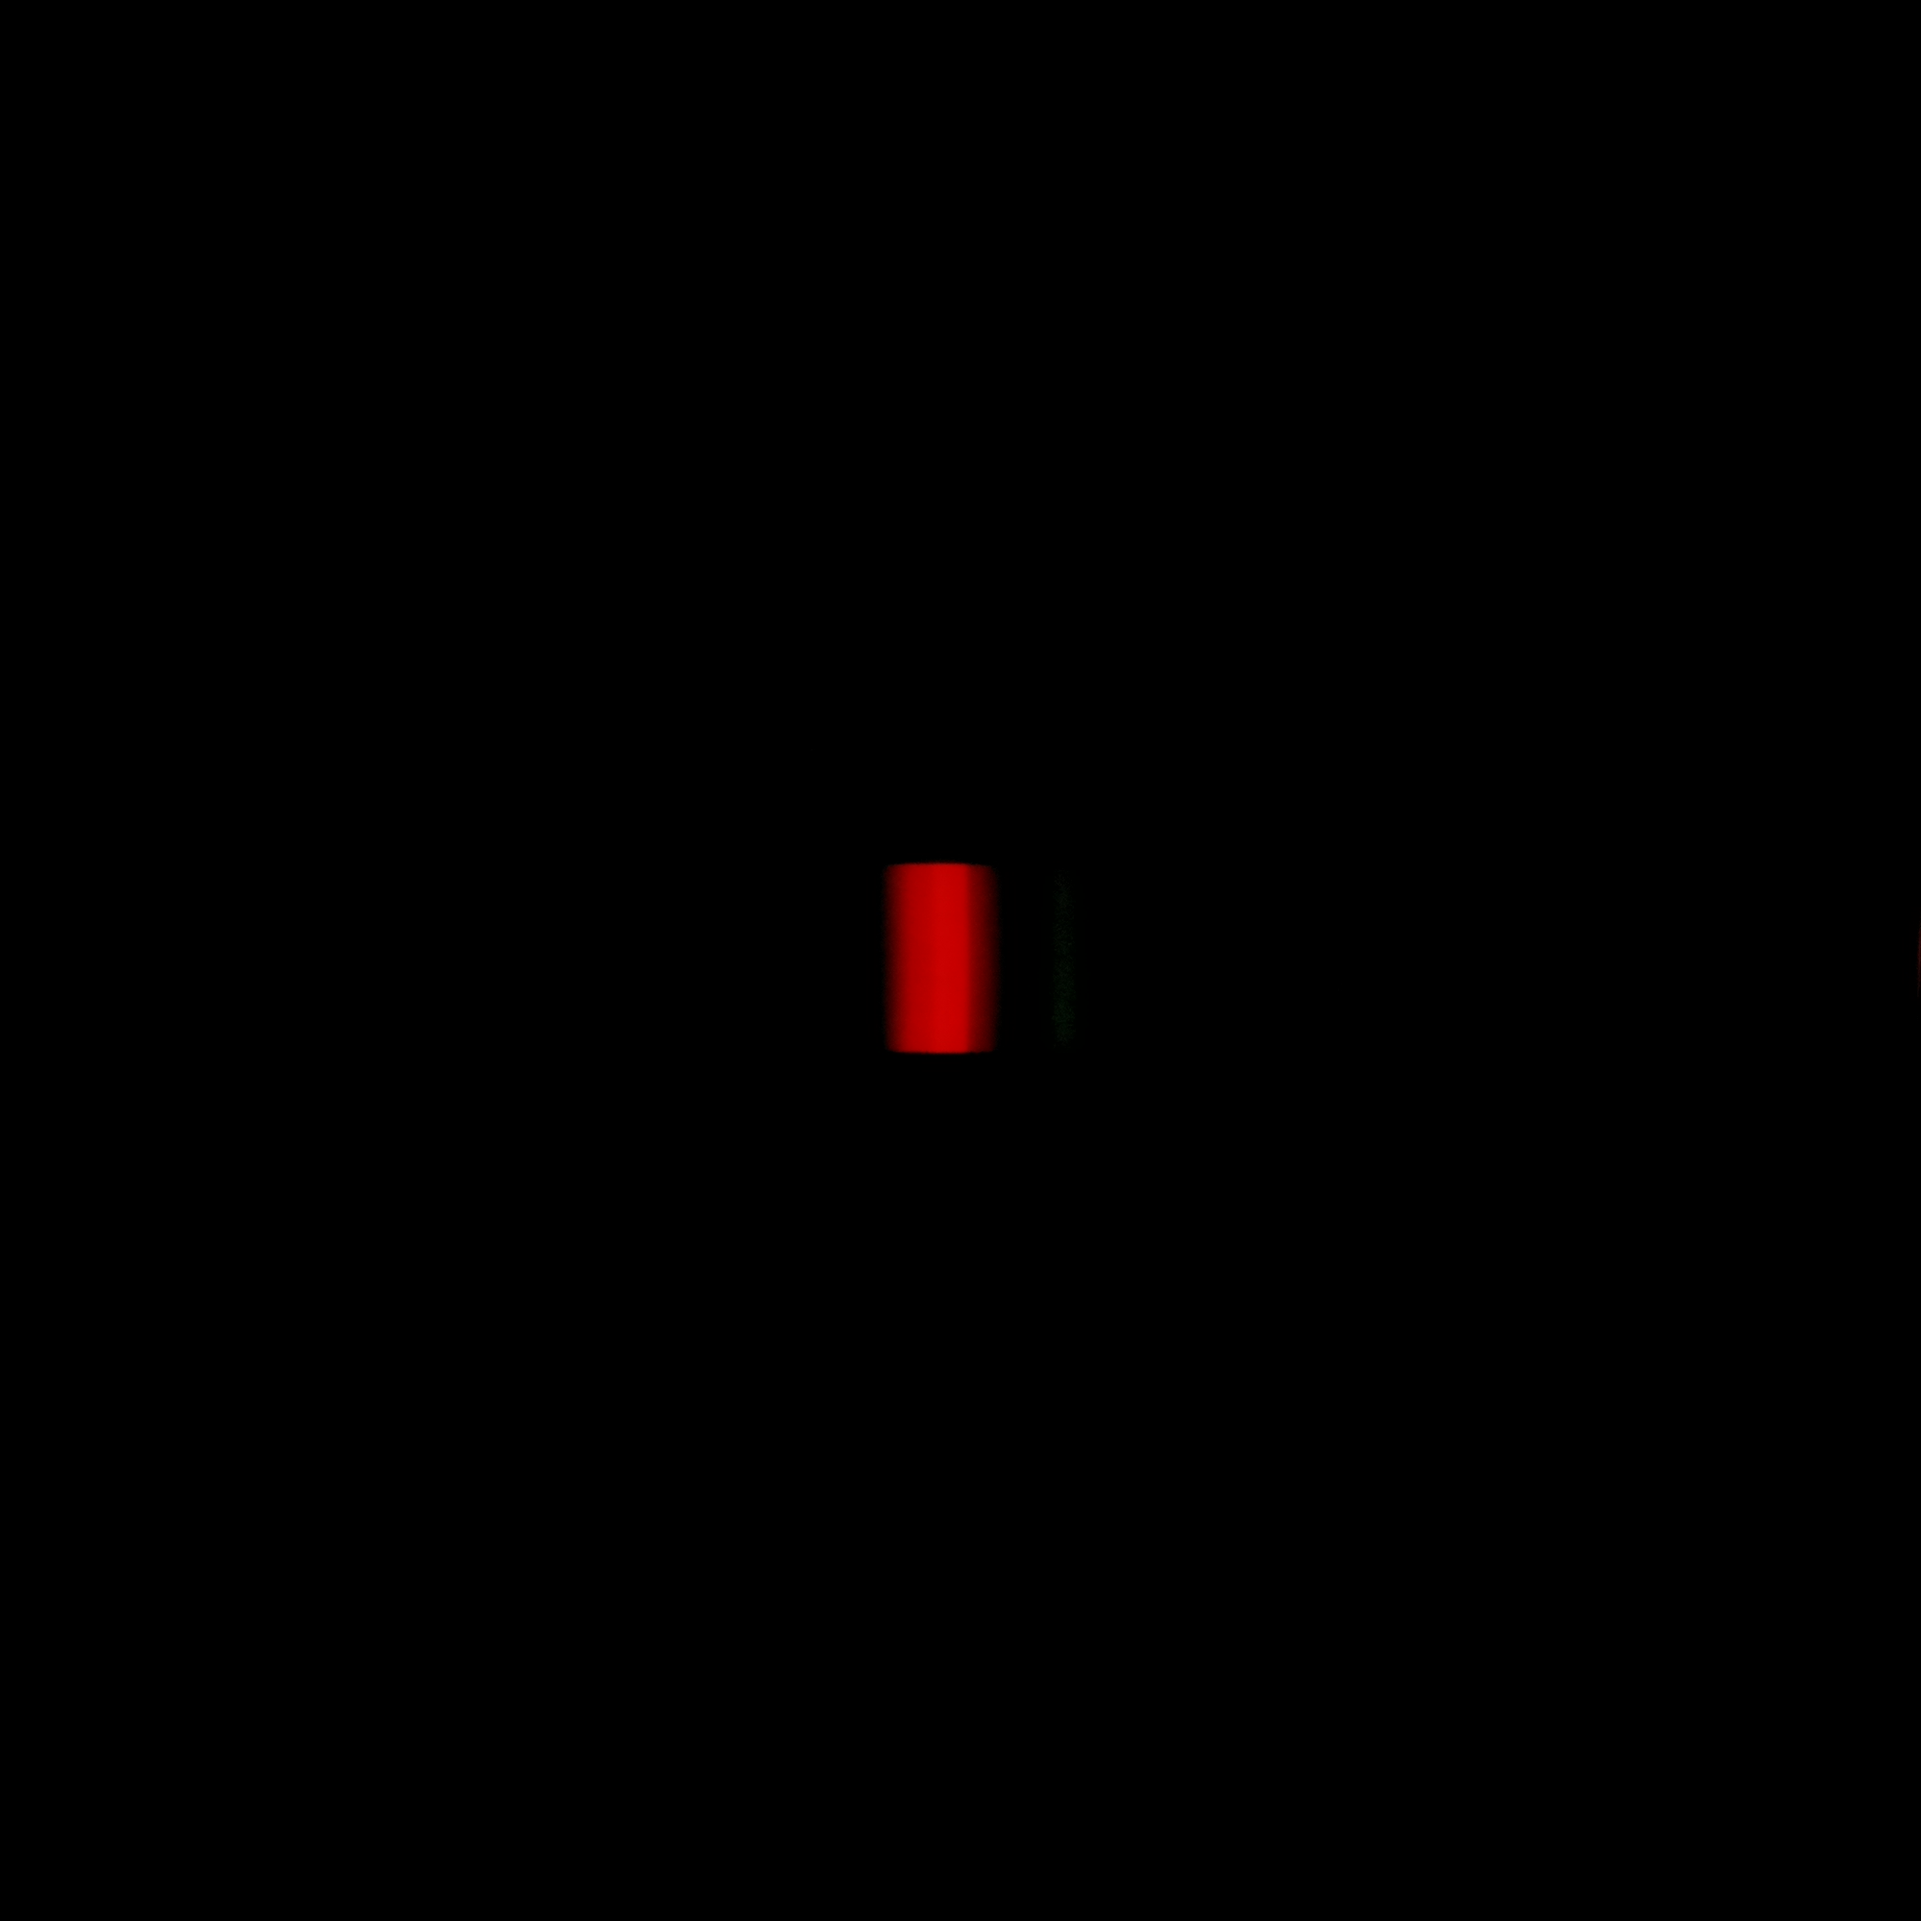
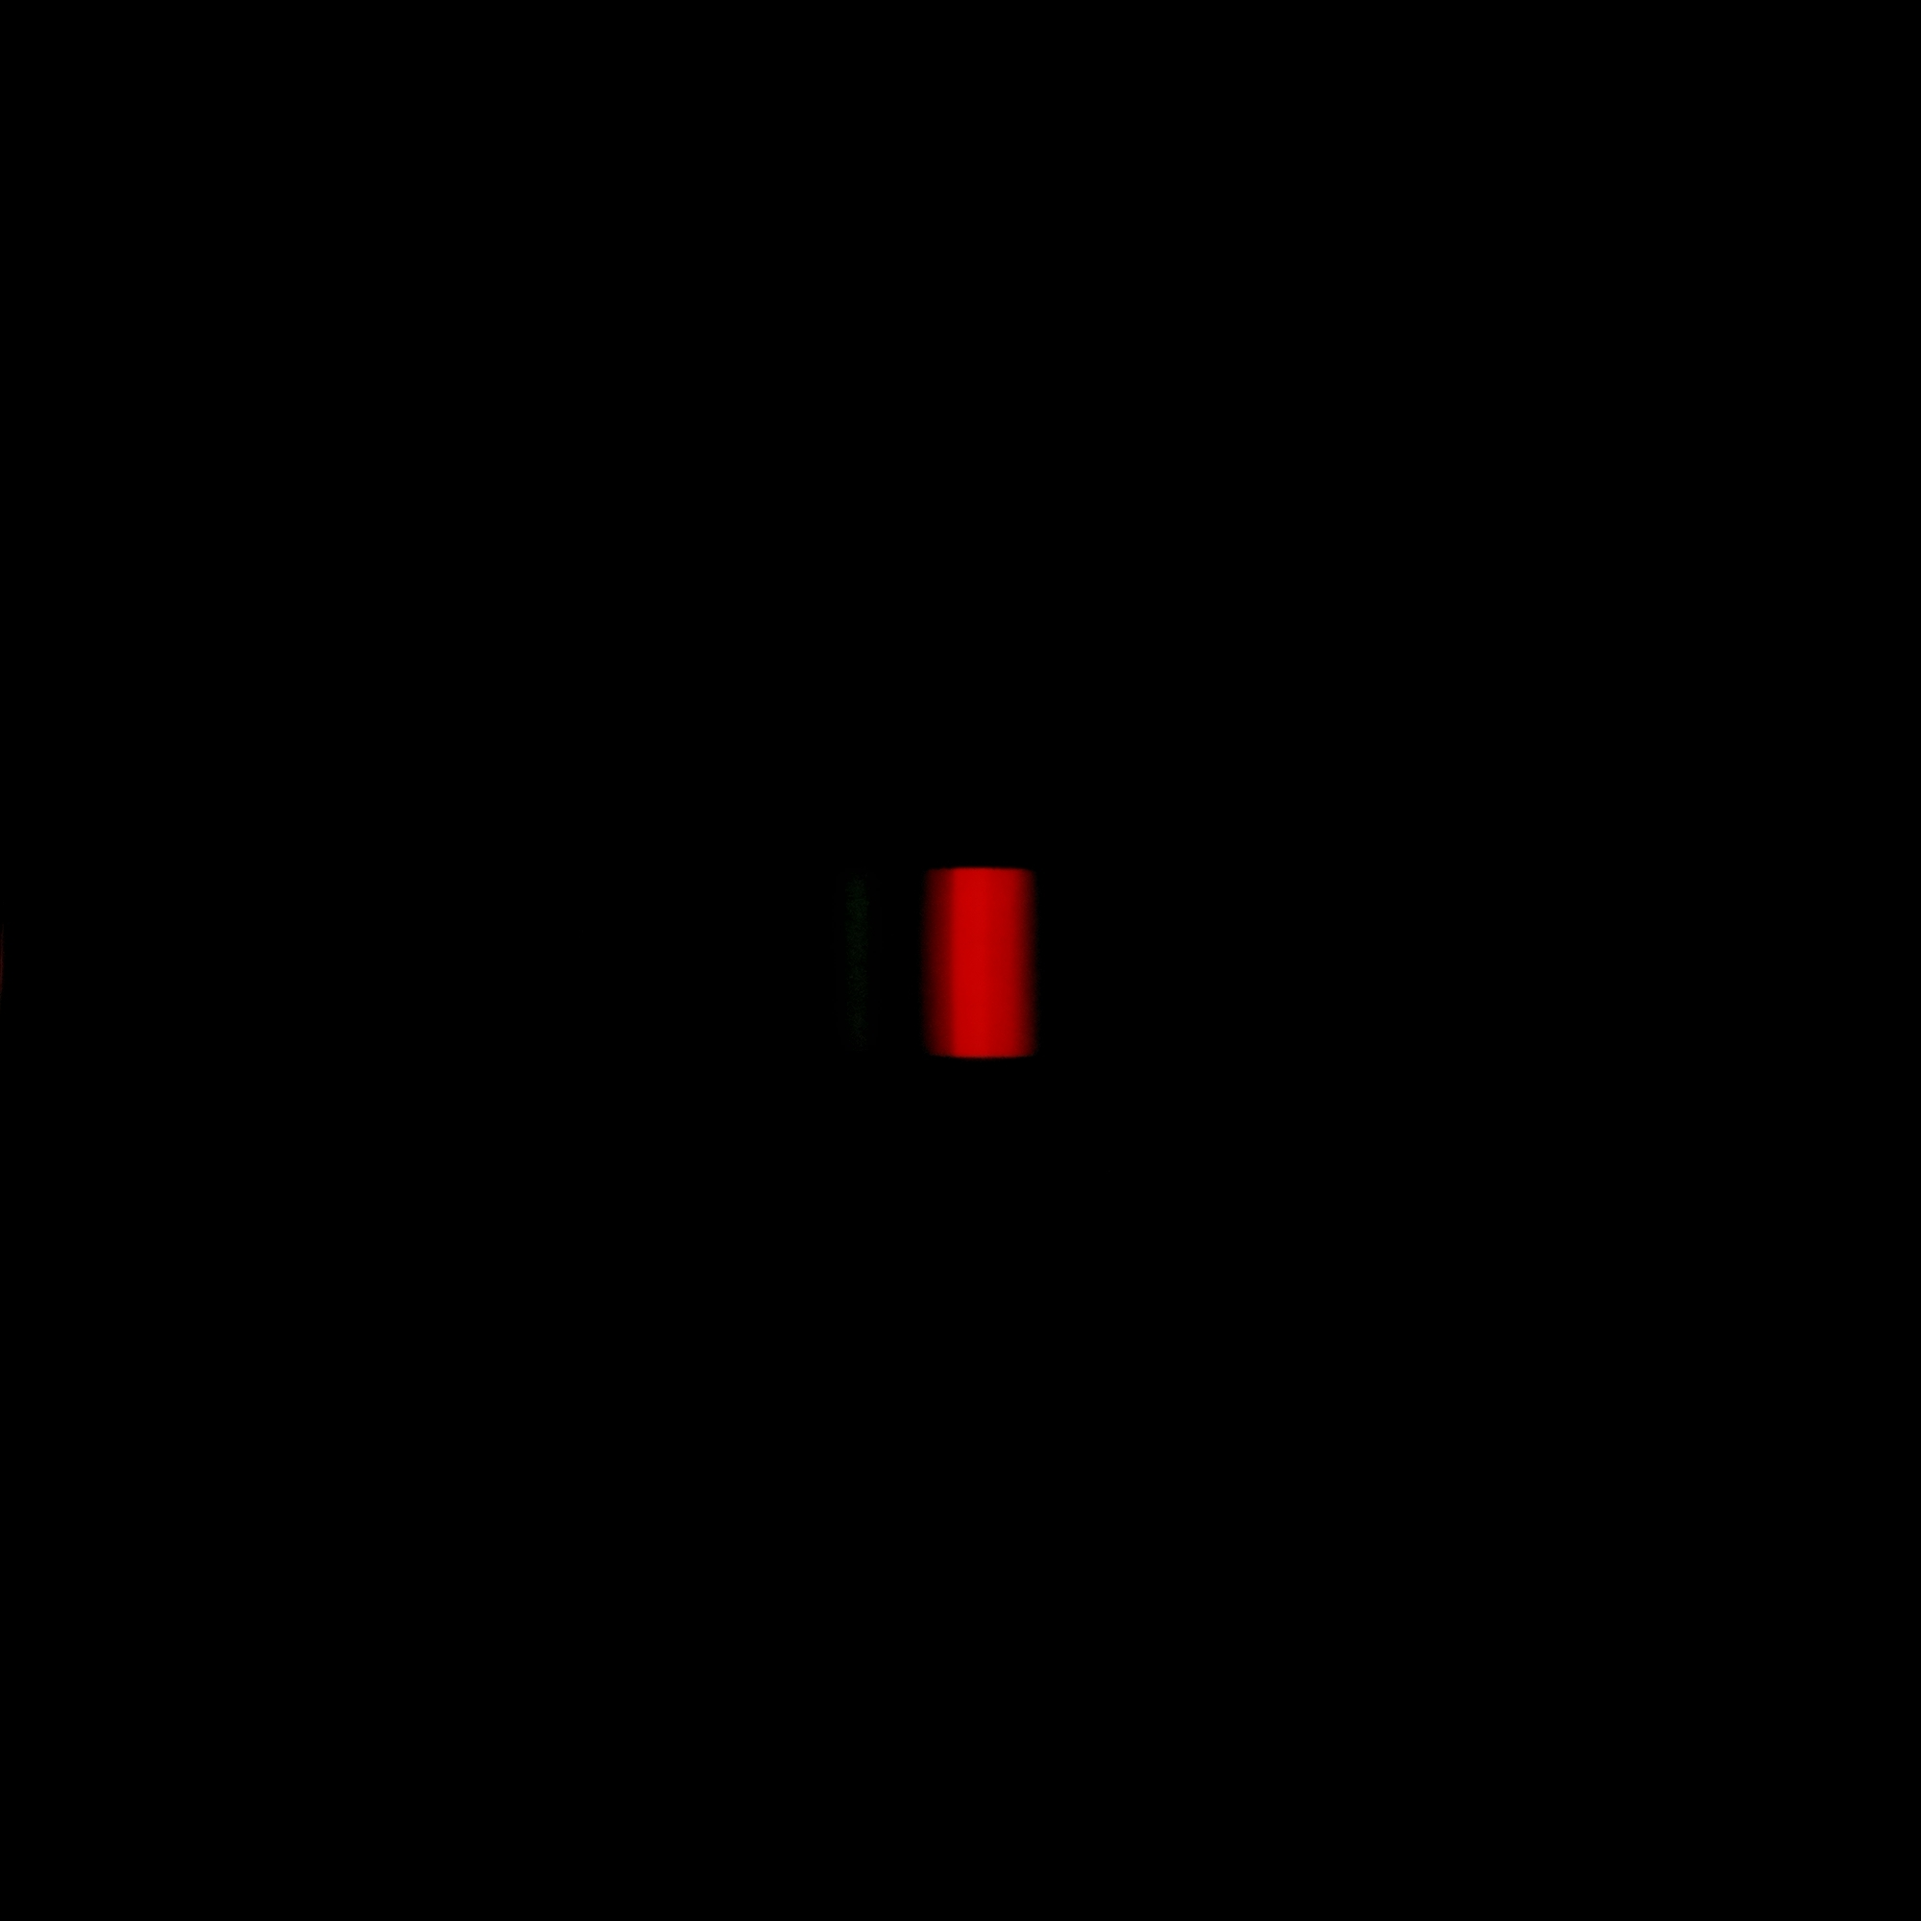
Подкрутил код, перевернул спектры, сделал графики

Changed region(s): [[0.434, 0.434, 0.558, 0.558]]

diff --git a/Lab-3 Light/lightFunctions.py b/Lab-3 Light/lightFunctions.py
@@ -1,0 +1,35 @@
+import numpy as np
+import matplotlib.pyplot as plt
+import imageio.v2 as imageio
+from cycler import cycler
+
+photoName = 'red_spec.jpg'
+plotName = 'red.png'
+surface = 'Красный лист'
+def readIntensity(photoName, plotName, lamp, surface):
+    photo = imageio.imread(photoName)
+    background = photo[896:1111, 664:1093, 0:3]
+
+    cut = photo[896:1111, 664:1093, 0:3]
+    rgb = np.mean(cut, axis=(0))
+    luma = 0.2989 * rgb[:, 0] + 0.5866 * rgb[:, 1] + 0.1144 * rgb[:, 2]
+
+    plt.rc('axes', prop_cycle=(cycler('color', ['r', 'g', 'b'])))
+
+    fig = plt.figure(figsize=(10, 5), dpi=200)
+
+    plt.title('Интенсивность отражённого излучения\n' + '{} / {}'.format(lamp, surface))
+    plt.xlabel('Относительный номер пикселя')
+    plt.ylabel('Яркость')
+
+    plt.plot(rgb, label=['r', 'g', 'b'])
+    plt.plot(luma, 'w', label='I')
+    plt.legend()
+
+    plt.imshow(background, origin='lower')
+    plt.savefig(plotName)
+    plt.show()
+
+    return luma
+
+readIntensity(photoName, plotName, 'Hg', surface)

diff --git a/Lab-3 Light/Measurement.py b/Lab-3 Light/Measurement.py
@@ -1,0 +1,26 @@
+from time import sleep
+from picamera import PiCamera
+
+camera = PiCamera()
+camera.brightness = 40
+
+#Camera warm-up time - Отображение входных данных камеры в ральном времени
+camera.start_preview()
+
+camera.resolution = (2000, 2000) #- задание разрешения снимка
+camera.contrast = 15
+brightness = str(camera.brightness)
+resolution = str(camera.resolution)
+contrast = str(camera.contrast)
+print('Яркость камеры: ' + brightness + '%')
+print('Разрешение снимков камеры: ' + resolution + 'пикселей')
+print('Контрастность снимков камеры: ' + contrast + ' единиц')
+
+sleep(7)
+camera.capture('/home/guest/Desktop/B03-301/red_spec.jpg')  # Take a picture - и сохранение фото
+
+camera.stop_preview() #- остановка предварительного просмотра
+
+#- задание контраста снимка
+
+camera.close() #-   метод для освобождения ресурсов камеры
